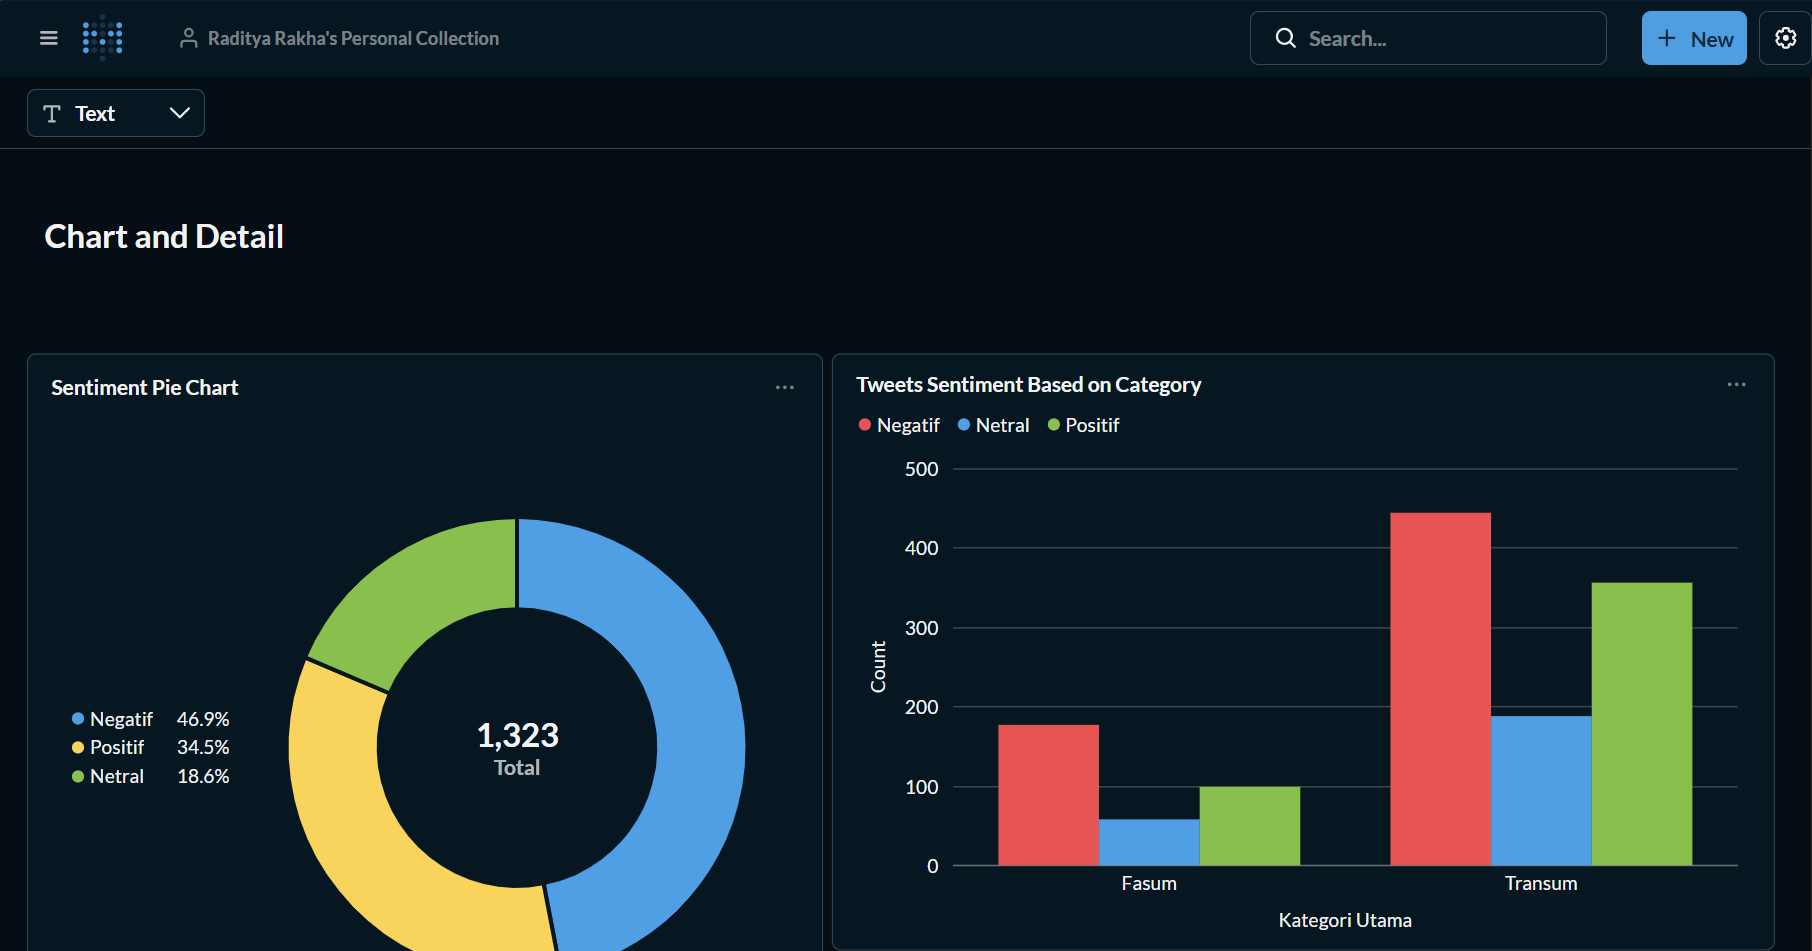
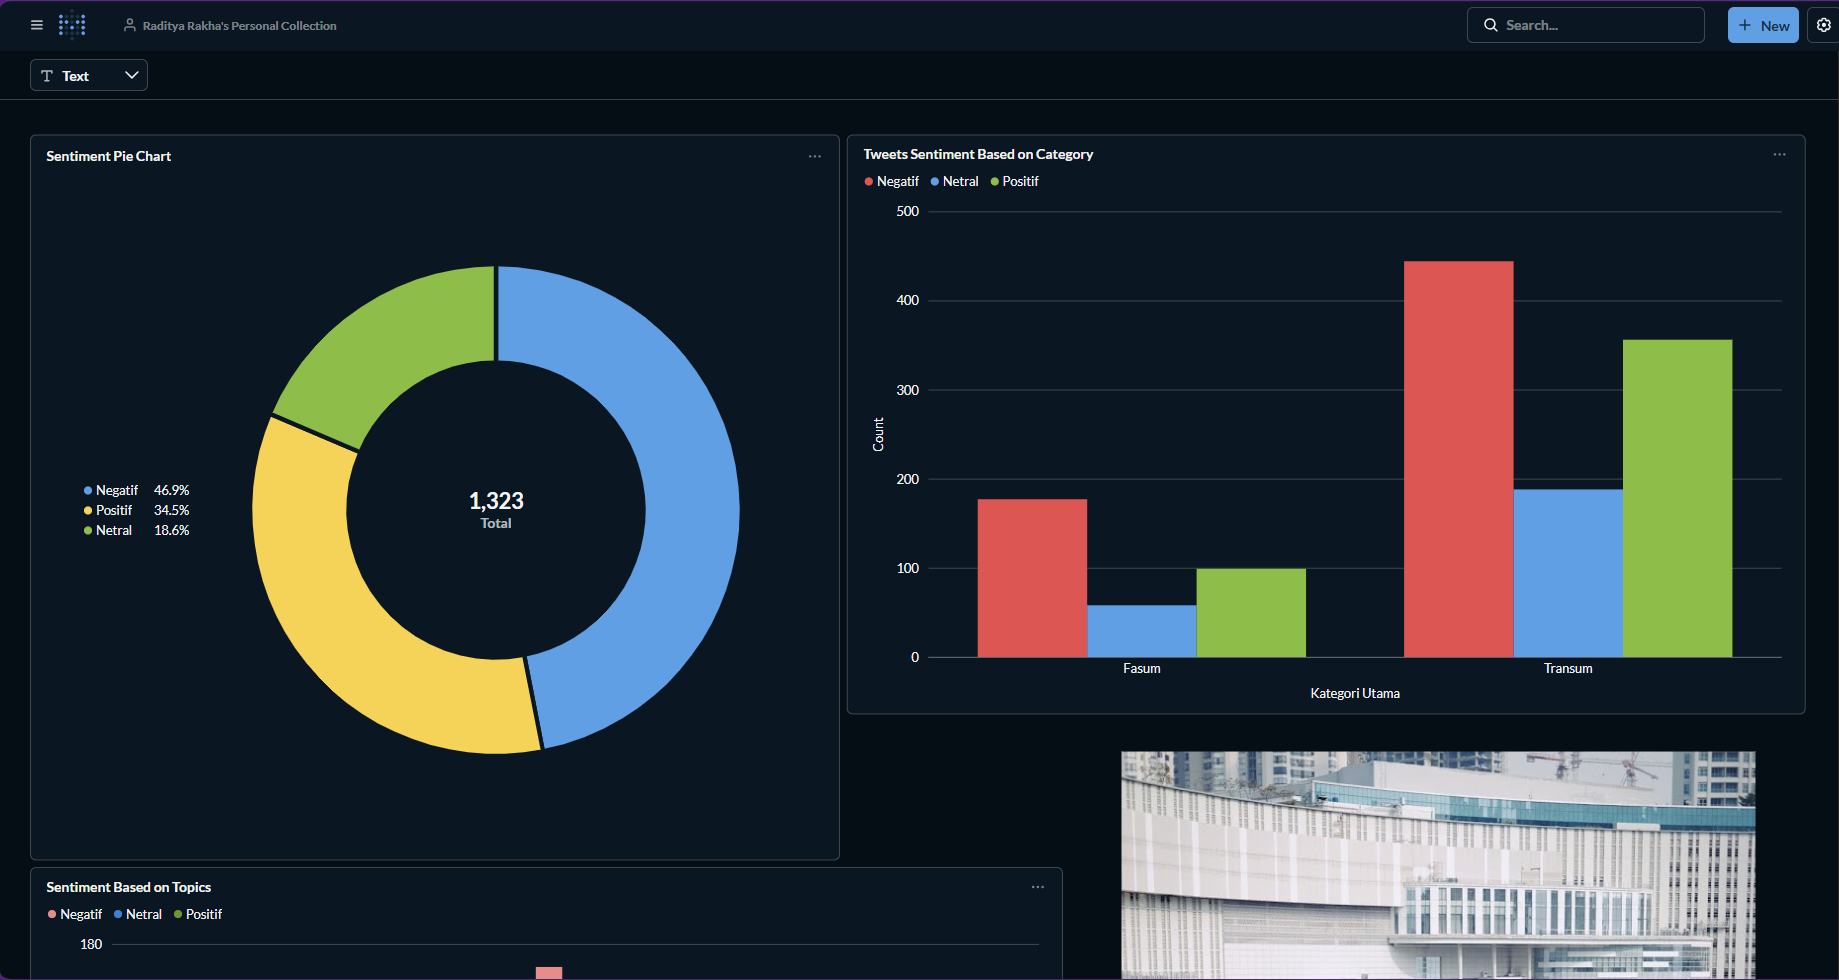
revise README: fix architecture (WAHA=chatbot, Telegram=notifier), update chatbot description, remove hardcoded stats, add chatbot screenshot

diff --git a/README.md b/README.md
@@ -22,7 +22,8 @@ Proyek ini membangun sebuah pipeline data end-to-end yang terdiri dari:
 Twitter/X ──────────┐
                     ▼
 Radar Semarang ──► Scraper API (FastAPI + Playwright)
-                    │
+                    │                    │
+                    │                    └──► Telegram Notifier
                     ▼
               MongoDB (Data Lake)
                     │
@@ -39,9 +40,11 @@ Radar Semarang ──► Scraper API (FastAPI + Playwright)
                     │
                     ▼
               Metabase Dashboard
-                    │
-                    ▼
-         WhatsApp Notification (WAHA)
+
+WhatsApp (WAHA) ──► Chatbot AI (n8n + Groq)
+                         │
+                    Query Sentimen & Berita
+                    dari PostgreSQL
 ```
 
 ---
@@ -56,7 +59,8 @@ Radar Semarang ──► Scraper API (FastAPI + Playwright)
 | Orchestration | n8n | Automasi pipeline & penjadwalan |
 | AI Analysis | Groq (LLaMA) | Analisis sentimen & klasifikasi berita |
 | Visualisasi | Metabase | Dashboard & peta interaktif |
-| WhatsApp API | WAHA | Notifikasi hasil analisis |
+| WhatsApp API | WAHA | Chatbot WhatsApp interaktif |
+| Notifikasi | Telegram | Notifikasi hasil scraping |
 | Deployment | Docker Compose + GitHub Actions | CI/CD ke VPS IDCloudHost |
 | Map Geocoding | Nominatim (OpenStreetMap) | Konversi nama lokasi ke koordinat |
 
@@ -93,12 +97,12 @@ n8n workflow **News Analyze and Classification** berjalan terjadwal:
 ## n8n Workflows
 
 ### Chatbot (WhatsApp AI Assistant)
-Chatbot WhatsApp berbasis AI yang menjawab pertanyaan pengguna menggunakan data dari database (Twitter & berita). Menggunakan dua AI Agent — satu untuk query Twitter, satu untuk query berita.
+Chatbot WhatsApp berbasis AI yang menjawab pertanyaan pengguna menggunakan data dari database (tweet sentimen & berita). AI Agent pertama menangani kedua jenis query (sentimen & berita). AI Agent kedua berfungsi sebagai fallback error handling apabila Agent pertama terkena rate limit LLM.
 
 ![Chatbot Workflow](docs/workflow-chatbot.png)
 
 ### Scrapper
-Workflow terjadwal untuk memicu scraping Twitter/X dan Radar Semarang secara periodik, dengan notifikasi Telegram setelah selesai.
+Workflow terjadwal untuk memicu scraping Twitter/X dan Radar Semarang secara periodik. Setelah scraping selesai, notifikasi dikirim via **Telegram**.
 
 ![Scrapper Workflow](docs/workflow-scrapper.png)
 
@@ -118,23 +122,21 @@ Pipeline klasifikasi berita, ekstraksi lokasi, geocoding via Nominatim, dan peny
 
 ### Analisis Sentimen Tweet
 
-Dashboard Metabase menampilkan distribusi sentimen dari **1.323 tweet** yang dikumpulkan:
-
-| Sentimen | Jumlah | Persentase |
-|---|---|---|
-| Negatif | ~620 | 46.9% |
-| Positif | ~456 | 34.5% |
-| Netral | ~247 | 18.6% |
-
-Breakdown sentimen per kategori (Fasilitas Umum vs Transportasi Umum) tersedia dalam bar chart.
+Dashboard Metabase menampilkan distribusi sentimen tweet yang dikumpulkan (Negatif / Positif / Netral), dibreakdown per kategori utama: Fasilitas Umum (Fasum) dan Transportasi Umum (Transum).
 
 ![Sentiment Dashboard](docs/dashboard-sentiment.png)
 
 ### Analisis Berita & Peta Lokasi
 
-Dashboard peta interaktif menampilkan lokasi kejadian (Kecelakaan, Banjir, Longsor) di wilayah Semarang, dengan total **61 artikel** yang terpetakan beserta statistik jumlah artikel per kategori.
+Dashboard peta interaktif menampilkan lokasi kejadian (Kecelakaan, Banjir, Longsor) di wilayah Semarang beserta jumlah artikel per kategori.
 
 ![News Dashboard](docs/dashboard-news.png)
+
+### Chatbot WhatsApp
+
+Pengguna dapat mengirim pertanyaan ke WhatsApp dan mendapatkan jawaban berdasarkan data sentimen tweet maupun berita terbaru dari database.
+
+![Chatbot Answer](docs/chatbot-answer.png)
 
 ---
 
